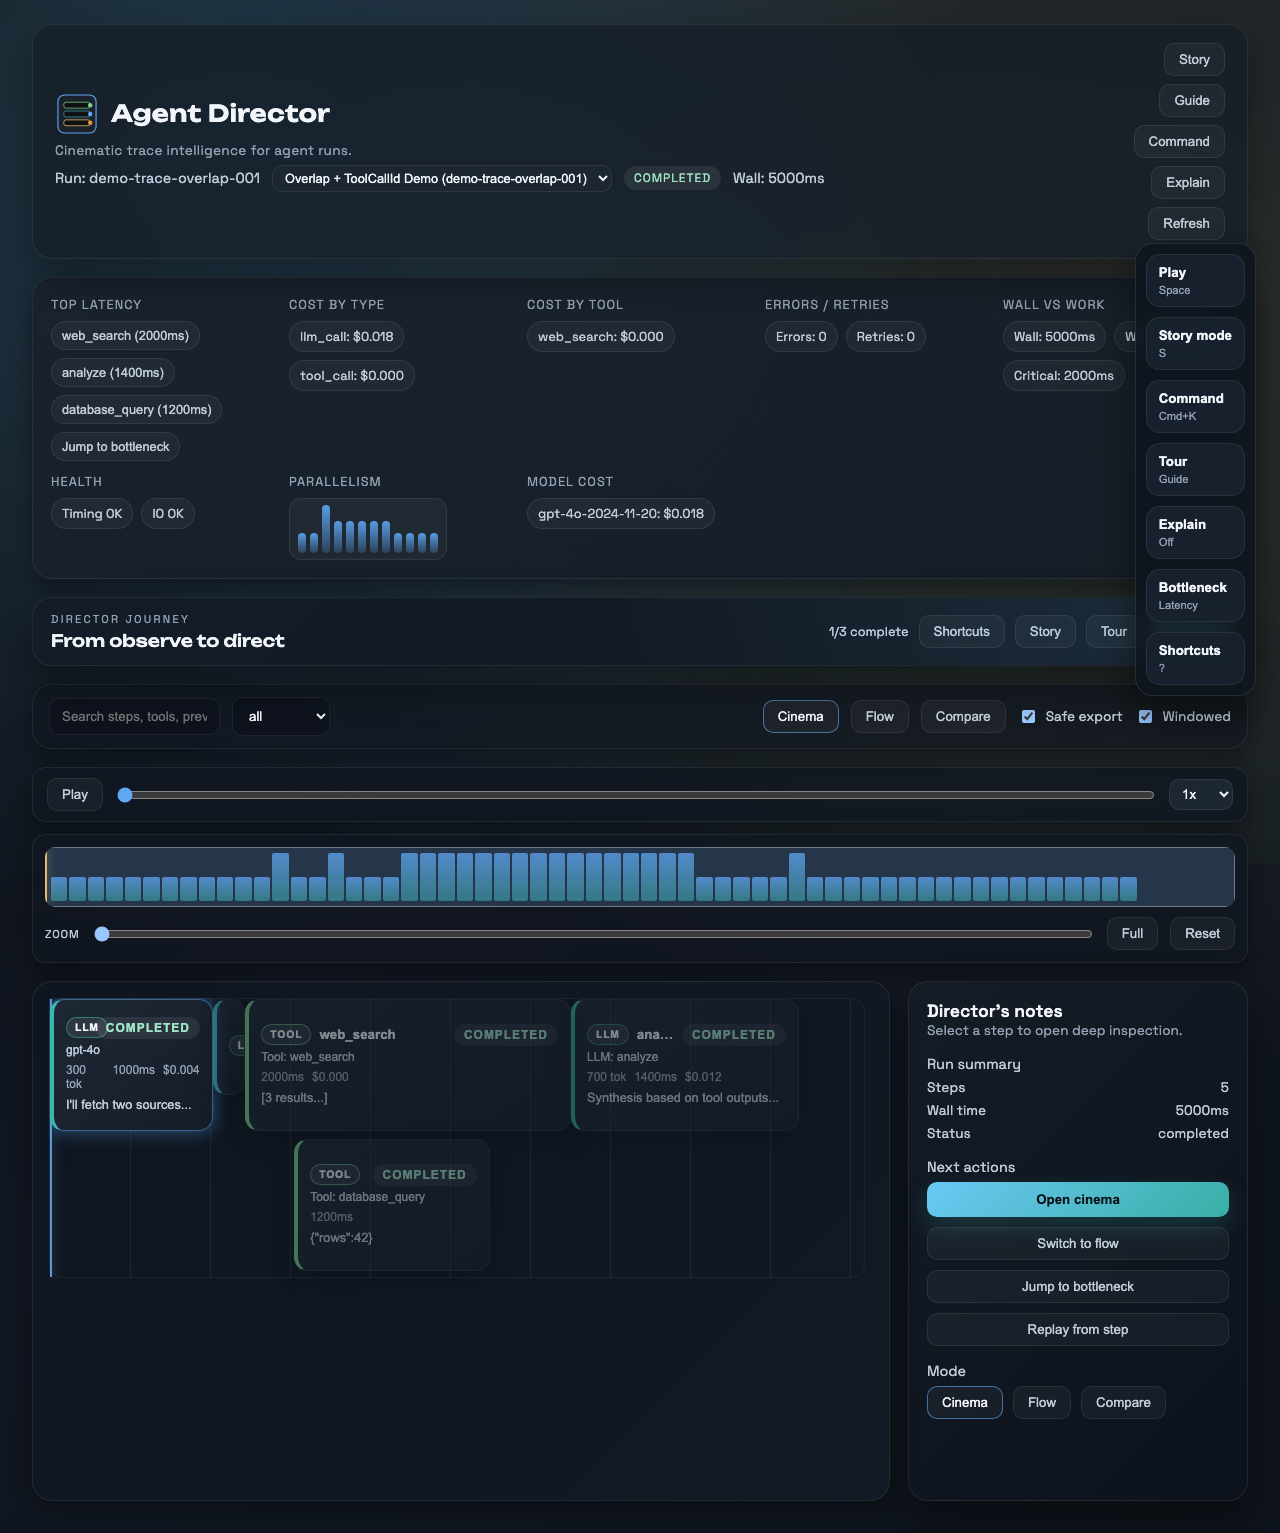
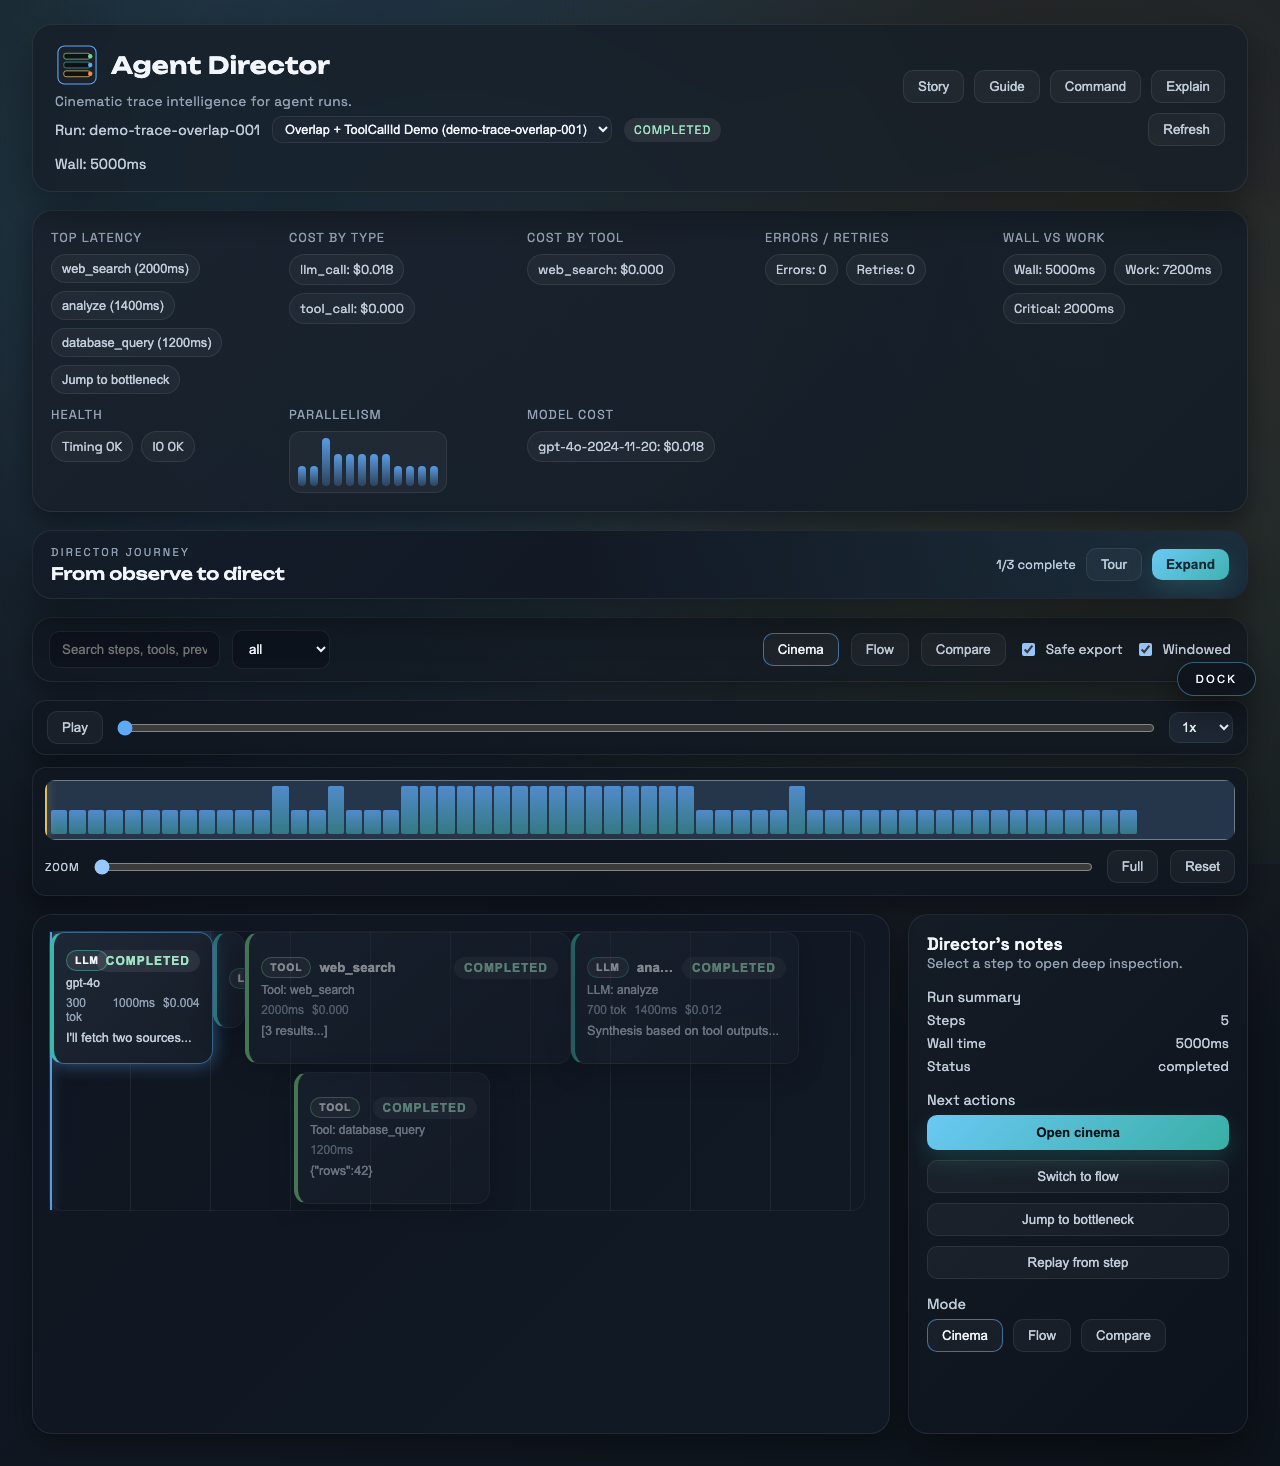
fix(ui): dock quick actions and refresh visuals

diff --git a/ui/src/components/common/JourneyPanel.tsx b/ui/src/components/common/JourneyPanel.tsx
@@ -14,10 +14,7 @@ type JourneyPanelProps = {
   onSelectStep: (stepId: string) => void;
   onJumpToBottleneck: () => void;
   onReplay: (stepId: string) => void;
-  onShowShortcuts: () => void;
   onStartTour?: () => void;
-  onToggleStory?: () => void;
-  storyActive?: boolean;
 };
 
 type JourneyStatus = 'done' | 'active' | 'next';
@@ -49,10 +46,7 @@ export default function JourneyPanel({
   onSelectStep,
   onJumpToBottleneck,
   onReplay,
-  onShowShortcuts,
   onStartTour,
-  onToggleStory,
-  storyActive = false,
 }: JourneyPanelProps) {
   const steps = trace.steps ?? [];
   const bottleneck = pickBottleneck(steps);
@@ -138,22 +132,6 @@ export default function JourneyPanel({
         </div>
         <div className="journey-collapsed-actions">
           <span className="journey-progress-text">{progress}/3 complete</span>
-          <button className="ghost-button" type="button" onClick={onShowShortcuts}>
-            Shortcuts
-          </button>
-          {onToggleStory ? (
-            <button
-              className={`ghost-button ${storyActive ? 'active' : ''}`}
-              type="button"
-              onClick={onToggleStory}
-              data-help
-              data-help-title="Story mode"
-              data-help-body="Auto-play the walkthrough for new viewers."
-              data-help-placement="bottom"
-            >
-              Story
-            </button>
-          ) : null}
           {onStartTour ? (
             <button className="ghost-button" type="button" onClick={onStartTour}>
               Tour
@@ -187,22 +165,6 @@ export default function JourneyPanel({
           </p>
         </div>
         <div className="journey-head-actions">
-          <button className="ghost-button" type="button" onClick={onShowShortcuts}>
-            Shortcuts
-          </button>
-          {onToggleStory ? (
-            <button
-              className={`ghost-button ${storyActive ? 'active' : ''}`}
-              type="button"
-              onClick={onToggleStory}
-              data-help
-              data-help-title="Story mode"
-              data-help-body="Auto-play the walkthrough for new viewers."
-              data-help-placement="bottom"
-            >
-              {storyActive ? 'Stop story' : 'Story mode'}
-            </button>
-          ) : null}
           {onStartTour ? (
             <button className="ghost-button" type="button" onClick={onStartTour}>
               Start tour

diff --git a/ui/src/components/common/QuickActions.tsx b/ui/src/components/common/QuickActions.tsx
@@ -6,6 +6,8 @@ type QuickActionsProps = {
   storyActive: boolean;
   explainMode: boolean;
   hidden?: boolean;
+  open: boolean;
+  onToggleOpen: () => void;
   onTogglePlay: () => void;
   onStartStory: () => void;
   onStopStory: () => void;
@@ -22,6 +24,8 @@ export default function QuickActions({
   storyActive,
   explainMode,
   hidden = false,
+  open,
+  onToggleOpen,
   onTogglePlay,
   onStartStory,
   onStopStory,
@@ -35,6 +39,25 @@ export default function QuickActions({
   const playLabel = isPlaying ? 'Pause' : 'Play';
   const storyLabel = storyActive ? 'Stop story' : 'Story mode';
 
+  if (!open) {
+    return (
+      <button
+        className="quick-actions-toggle"
+        type="button"
+        onClick={onToggleOpen}
+        aria-label="Open quick actions"
+        aria-expanded="false"
+        data-help
+        data-tour="quick-actions"
+        data-help-title="Quick actions"
+        data-help-body="Open the dock to access demos, shortcuts, and instant actions."
+        data-help-placement="left"
+      >
+        Dock
+      </button>
+    );
+  }
+
   return (
     <aside
       className="quick-actions"
@@ -46,6 +69,20 @@ export default function QuickActions({
       data-help-body="Launch story mode, open the command palette, or jump to the bottleneck instantly."
       data-help-placement="left"
     >
+      <div className="quick-actions-header">
+        <div>
+          <div className="quick-actions-title">Quick actions</div>
+          <div className="quick-actions-subtitle">Pin demo controls close at hand.</div>
+        </div>
+        <button
+          className="ghost-button"
+          type="button"
+          onClick={onToggleOpen}
+          aria-label="Collapse quick actions"
+        >
+          Collapse
+        </button>
+      </div>
       <button
         className={`quick-action ${isPlaying ? 'active' : ''}`}
         type="button"

diff --git a/ui/src/styles/main.css b/ui/src/styles/main.css
@@ -358,9 +358,10 @@ pre {
 
 .header-actions {
   display: flex;
-  flex-direction: column;
-  gap: 8px;
-  align-items: flex-end;
+  flex-direction: row;
+  gap: 10px;
+  align-items: center;
+  justify-content: flex-end;
   flex-wrap: wrap;
 }
 
@@ -1675,6 +1676,50 @@ pre {
   z-index: 40;
 }
 
+.quick-actions-toggle {
+  position: fixed;
+  right: 24px;
+  bottom: 24px;
+  padding: 10px 18px;
+  border-radius: 999px;
+  border: 1px solid rgba(111, 210, 255, 0.4);
+  background: rgba(14, 20, 28, 0.92);
+  color: var(--text-primary);
+  font-size: 0.7rem;
+  letter-spacing: 0.2em;
+  text-transform: uppercase;
+  cursor: pointer;
+  box-shadow: 0 16px 32px rgba(0, 0, 0, 0.45);
+  transition: transform var(--transition-fast), border-color var(--transition-fast), box-shadow var(--transition-fast);
+  z-index: 40;
+}
+
+.quick-actions-toggle:hover {
+  transform: translateY(-1px);
+  border-color: rgba(111, 210, 255, 0.65);
+  box-shadow: 0 18px 38px rgba(15, 26, 40, 0.6);
+}
+
+.quick-actions-header {
+  display: flex;
+  align-items: center;
+  justify-content: space-between;
+  gap: 12px;
+  padding: 2px 4px 6px;
+}
+
+.quick-actions-title {
+  font-size: 0.7rem;
+  text-transform: uppercase;
+  letter-spacing: 0.18em;
+  color: var(--text-muted);
+}
+
+.quick-actions-subtitle {
+  font-size: 0.7rem;
+  color: var(--text-secondary);
+}
+
 .quick-action {
   display: flex;
   flex-direction: column;
@@ -1948,6 +1993,11 @@ pre {
     bottom: 16px;
   }
 
+  .quick-actions-toggle {
+    right: 16px;
+    bottom: 16px;
+  }
+
   .story-banner {
     top: 110px;
     min-width: min(540px, 94vw);
@@ -2033,6 +2083,12 @@ pre {
     flex-direction: row;
     flex-wrap: wrap;
     justify-content: space-between;
+  }
+
+  .quick-actions-toggle {
+    position: static;
+    margin-top: 12px;
+    align-self: flex-end;
   }
 
   .quick-action {

diff --git a/ui/src/App.tsx b/ui/src/App.tsx
@@ -134,6 +134,7 @@ export default function App() {
   const [journeyCollapsed, setJourneyCollapsed] = usePersistedState('agentDirector.onboarded', false);
   const [tourCompleted, setTourCompleted] = usePersistedState('agentDirector.tourCompleted', false);
   const [explainMode, setExplainMode] = usePersistedState('agentDirector.explainMode', true);
+  const [dockOpen, setDockOpen] = usePersistedState('agentDirector.dockOpen', false);
   const skipIntro = import.meta.env.VITE_SKIP_INTRO === '1';
   const [introDismissed, setIntroDismissed] = usePersistedState('agentDirector.introDismissed', skipIntro);
   const [tourOpen, setTourOpen] = useState(false);
@@ -169,6 +170,12 @@ export default function App() {
   useEffect(() => {
     compareTraceRef.current = compareTrace;
   }, [compareTrace]);
+
+  useEffect(() => {
+    if (mode === 'compare') {
+      setDockOpen(false);
+    }
+  }, [mode, setDockOpen]);
 
   const handleReplay = useCallback(
     async (stepId: string) => {
@@ -882,10 +889,7 @@ export default function App() {
         }}
         onJumpToBottleneck={jumpToBottleneck}
         onReplay={handleReplay}
-        onShowShortcuts={() => setShowShortcuts(true)}
         onStartTour={() => setTourOpen(true)}
-        onToggleStory={toggleStory}
-        storyActive={storyActive}
       />
 
       <div
@@ -1120,6 +1124,8 @@ export default function App() {
         storyActive={storyActive}
         explainMode={explainMode}
         hidden={mode === 'compare'}
+        open={dockOpen}
+        onToggleOpen={() => setDockOpen((prev) => !prev)}
         onTogglePlay={togglePlayback}
         onStartStory={startStory}
         onStopStory={stopStory}
